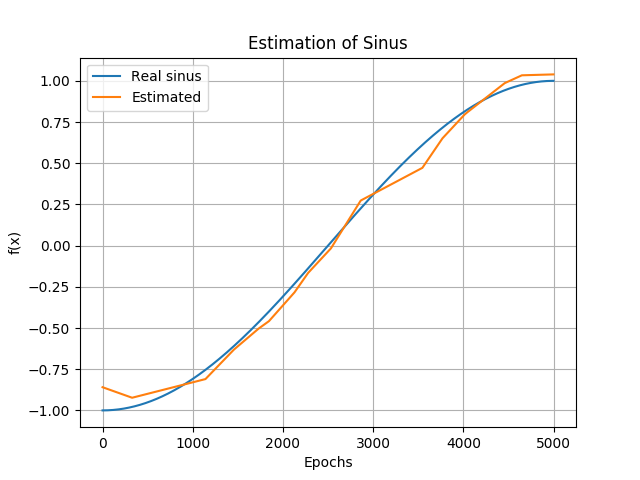
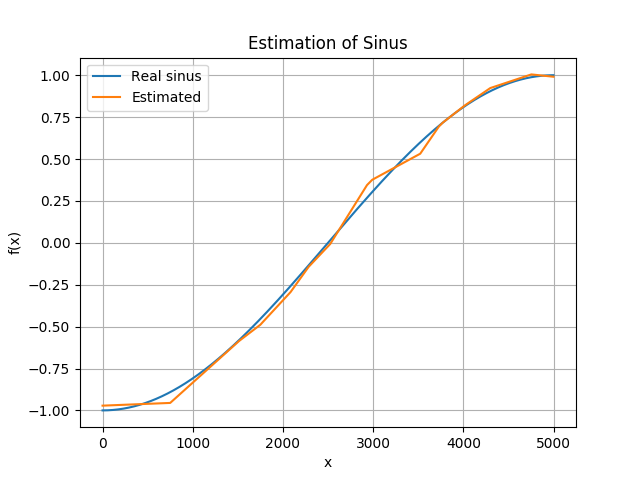
modif images

diff --git a/main.py b/main.py
@@ -24,7 +24,7 @@ def relu(x, derivative=False):
 np.random.seed(1)
 
 # learning rate
-alpha = .01
+alpha = .005
 
 # number of nodes in the hidden layer
 num_hidden = 20
@@ -46,7 +46,7 @@ hidden_weights = 2 * np.random.random((X.shape[1] + 1, num_hidden)) - 1
 output_weights = 2 * np.random.random((num_hidden + 1, y.shape[1])) - 1
 
 # number of iterations of gradient descent
-num_epochs = 1000
+num_epochs = 10000
 loss_per_epoch = []
 loss_test = []
 
@@ -111,7 +111,7 @@ plt.plot(np.arange(len(sinus_test)), sinus_test, label = 'Estimated')
 plt.grid(True)
 plt.legend()
 plt.title('Estimation of Sinus')
-plt.xlabel('Epochs')
+plt.xlabel('x')
 plt.ylabel('f(x)')
 plt.savefig('estimations.png')
 plt.show()
